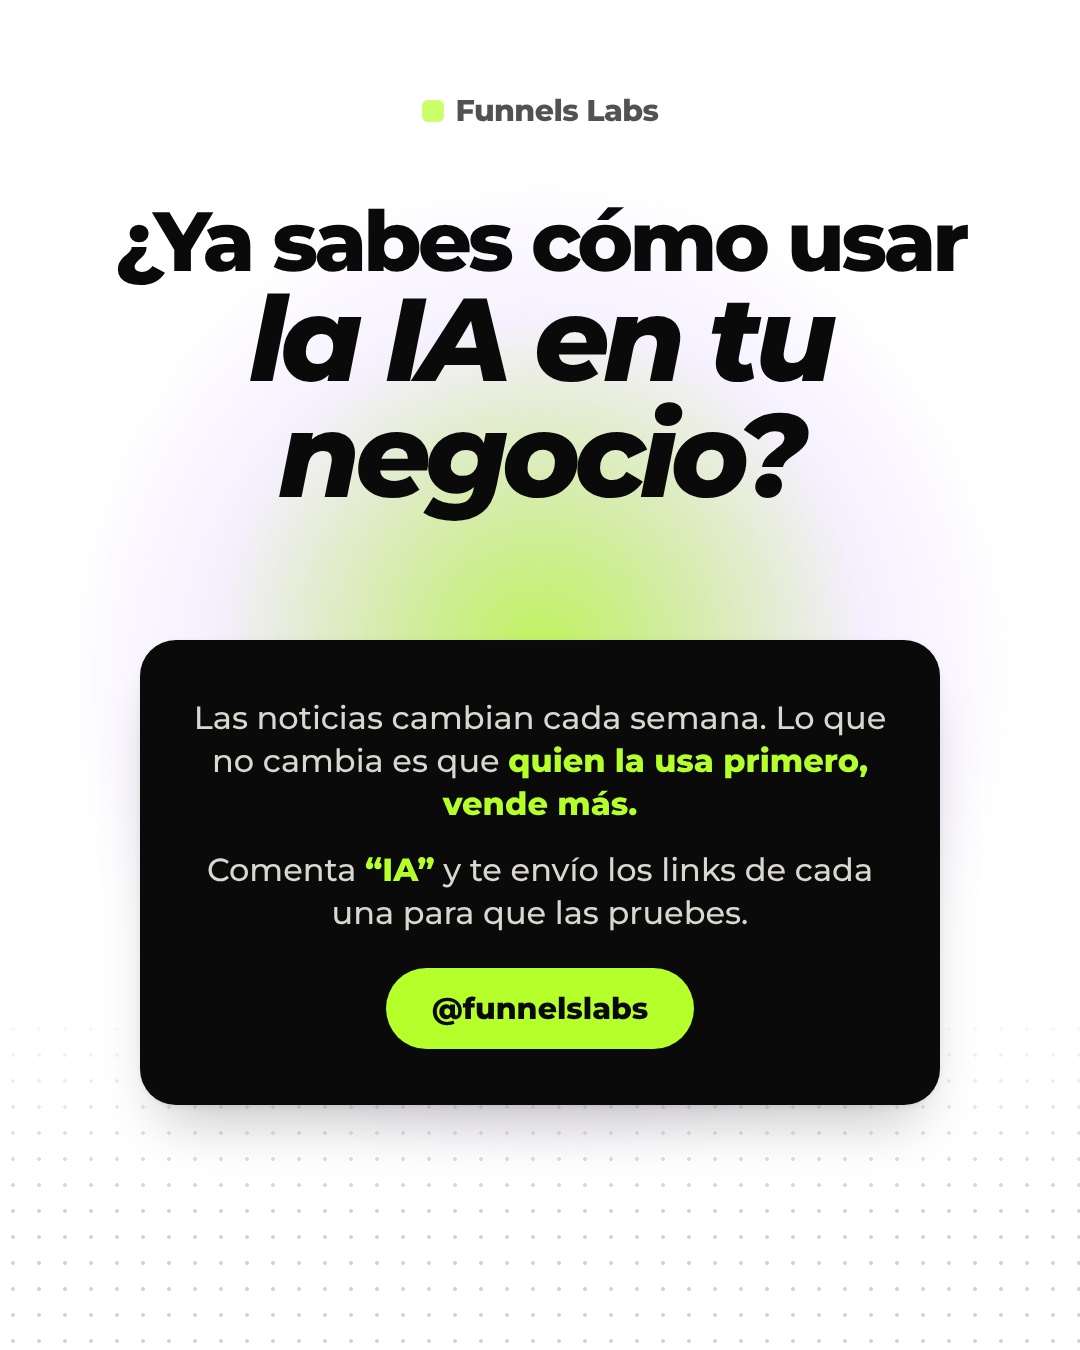
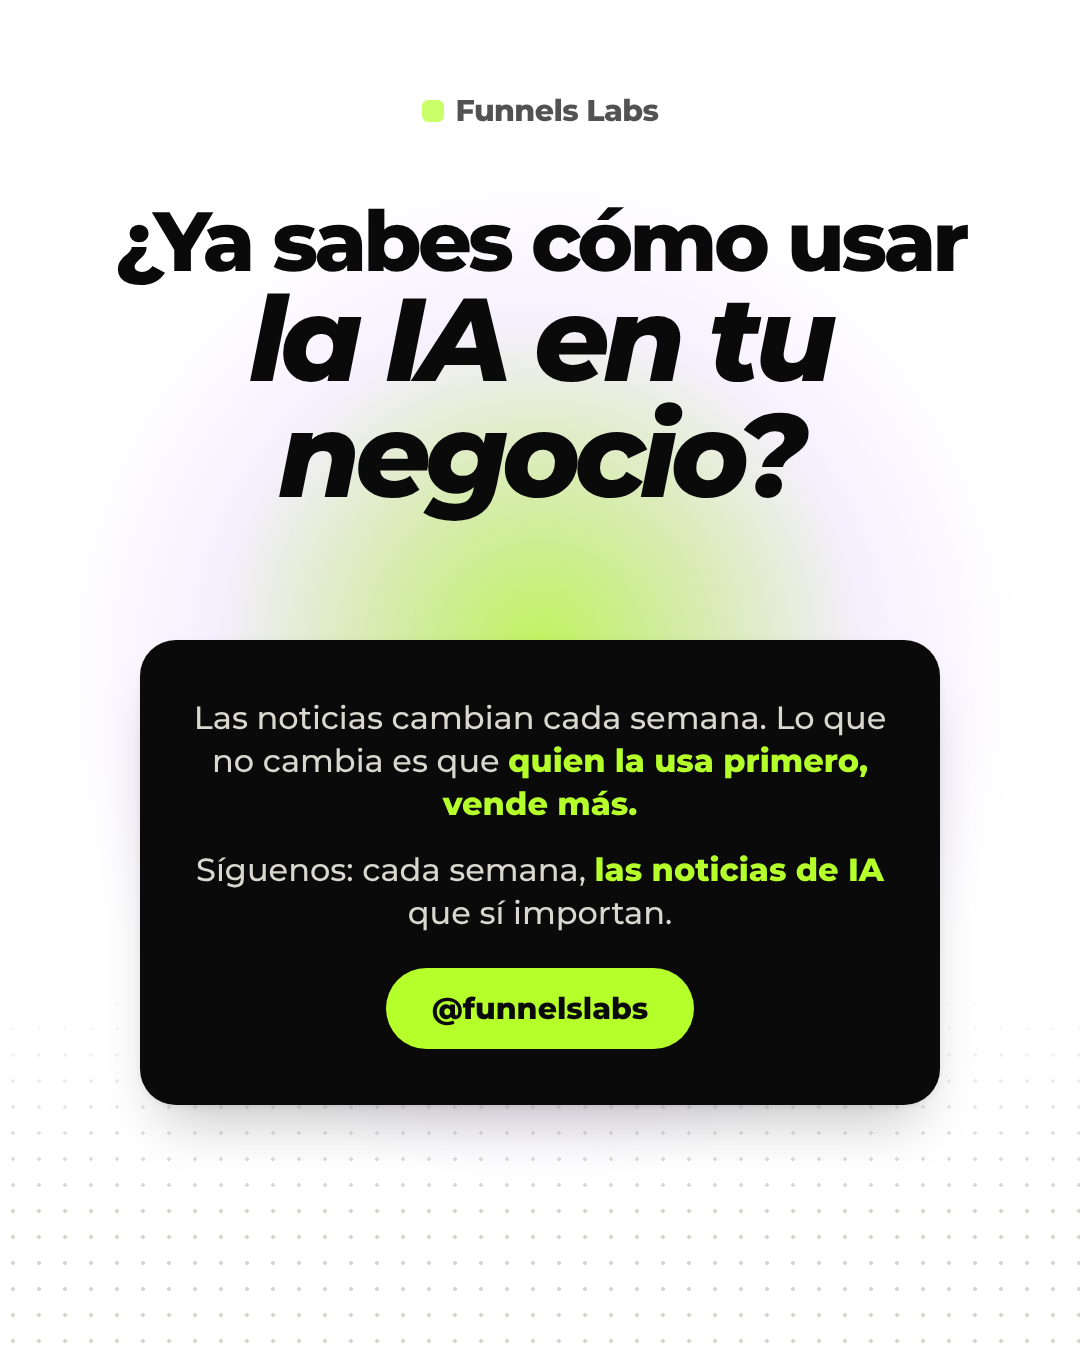
Noticias IA: cierre con 'Síguenos' en lugar de 'Comenta IA'
Claude-Session: https://claude.ai/code/session_018d4LXHkXweDJXxfN5x99dL

Changed region(s): [[0.1833, 0.6222, 0.825, 0.6844]]

diff --git a/carruseles/noticias-ia-semana-oct-8/carrusel.html b/carruseles/noticias-ia-semana-oct-8/carrusel.html
@@ -202,7 +202,7 @@
   <h1 style="top:200px;font-size:84px">¿Ya sabes cómo usar <em style="font-size:118px">la IA en tu negocio?</em></h1>
   <div class="cta-box" style="top:640px">
     <p>Las noticias cambian cada semana. Lo que no cambia es que <b>quien la usa primero, <span style="white-space:nowrap">vende más.</span></b></p>
-    <p style="margin-top:22px">Comenta <b>“IA”</b> y te envío los links de cada una para que las pruebes.</p>
+    <p style="margin-top:22px">Síguenos: cada semana, <b>las noticias de IA</b> que sí importan.</p>
     <span class="btn">@funnelslabs</span>
   </div>
 </section>
